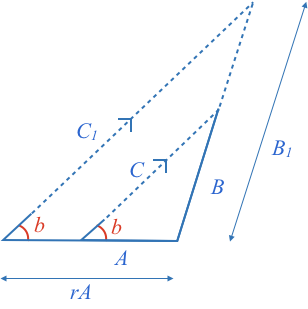
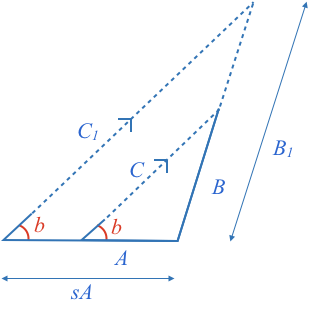
update staticBrief

diff --git a/src/content/Math/Geometry_1/SimilarTriangles/explanation/staticBrief/content.md b/src/content/Math/Geometry_1/SimilarTriangles/explanation/staticBrief/content.md
@@ -2,7 +2,7 @@
 
 **Similar** shapes are those that have the same shape but are a different size.
 
-**Similar** triangles have the same corresponding angles and their corresponding sides are the same proportion.
+**Similar** triangles have the same corresponding angles and their corresponding sides have the same proportion (have the same scaling factor).
 
 
 ### Triangles with Equal Corresponding Angles are Similar - Proof
@@ -11,7 +11,7 @@ Consider two triangles with **equal angles** overlaid on each other.
 
 ![](SimilarOverlay.png)
 
-$$\definecolor{b}{RGB}\definecolor{r}{RGB}{238,34,12}{0,118,186}\angle DBC$$ and $$\angle ADE$$ are [[equal corresponding angles]]((qr,'Math/Geometry_1/AnglesAtIntersections/base/Corresponding',#00756F)), therefore $$\color{b}BC \parallel DE$$.
+$$\definecolor{b}{RGB}{0,118,186}\definecolor{r}{RGB}{238,34,12}\angle DBC$$ and $$\angle ADE$$ are [[equal corresponding angles]]((qr,'Math/Geometry_1/AnglesAtIntersections/base/Corresponding',#00756F)), therefore $$\color{b}BC \parallel DE$$.
 
 When a triangle is [[split with a parallel line]]((qr,'Math/Geometry_1/ParallelSplitOfTriangle/base/Triangle',#00756F)), the smaller triangle's sides will all be scaled by the same proportion.
 
@@ -23,37 +23,39 @@ Therefore $$\triangle ABC$$ and $$\triangle ADE$$ are **similar**.
 
 ### Similar Triangles have Equal Corresponding Angles - Proof
 
-Start with two triangles whose **corresponding sides have equal proportion**.
-
-Start by drawing the two proportional triangles $$\triangle ABC$$ and $$\triangle DEF$$, and then draw an additional triangle along $$DF$$ with the angles $$\angle BAC=\angle GDF$$ and $$\angle ACB=\angle DFG$$:
+Start by drawing the two similar triangles $$\triangle ABC$$ and $$\triangle DEF$$, and then draw an additional triangle along $$DF$$ with the angles $$\angle BAC=\angle GDF$$ and $$\angle ACB=\angle DFG$$:
 
 ![](ProportionalToAngles.png)
 
-Angles in a triangle [[add]]((qr,'Math/Geometry_1/Triangles/base/AngleSum',#00756F)) to 180º, so two triangles with the same two angles will have the same third angle: $$\color{b}\angle ABC = \angle DGF$$
+[[Angles in a triangle add to 180º]]((qr,'Math/Geometry_1/Triangles/base/AngleSum',#00756F)), so two triangles with the same two angles will have the same third angle:
+
+$$\angle ABC = \angle DGF$$
 
 Therefore all the corresponding angles of $$\triangle ABC$$ and $$\triangle DFG$$ are equal.
 
 From above, two triangles with the same corresponding angles are similar.
 
-Therefore:
+So we started with two initial similar triangles:
 
-$$\color{b} \frac{DG}{AB} = \frac{DF}{AC} \ \ \ \ \ \ \ \ \color{grey}(1)$$
+$$\frac{{DE}\color{b}}{AB}\color{black} = \frac{DF}{AC} \ \ \ \ \ \ \ \ \color{grey}(2)$$
 
-We started with:
+And then constructed a third triangle $$\triangle DFG$$ similar to $$\triangle ABC$$ resulting in:
 
-$$\color{b} \frac{\color{r}{DE}\color{b}}{AB} = \frac{DF}{AC} \ \ \ \ \ \ \ \ \color{grey}(2)$$
+$$\frac{\color{r}DG}{\color{black}AB} = \frac{DF}{AC} \ \ \ \ \ \ \ \ \color{grey}(1)$$
+
+
 
 Combining $$\color{grey}(1)$$ and $$\color{grey}(2)$$:
 
-$$\color{b} DE = DG$$
+$$DE = DG$$
 
 Using the same process, can similarly show:
 
-$$\color{b} EF = GF$$
+$$EF = GF$$
 
 Triangles with the same side lengths are [[congruent]]((qr,'Math/Geometry_1/CongruentTriangles/base/Sss',#00756F)), so the angles of $$\triangle DEF$$ will be equal to the angles in $$\triangle DFG$$ and therefore $$\triangle ABC$$.
 
-Therefore $$\triangle ABC$$ and $$\triangle DEF$$ are similar as they have the same angles, and their corresponding sides have the same proportion.
+Therefore the similar triangles $$\triangle ABC$$ and $$\triangle DEF$$ have equal corresponding angles.
 
 ### Similarity Tests
 
@@ -65,15 +67,19 @@ The longer [form of this explanation](/content/Math/Geometry_1/SimilarTriangles/
 
 ### Angle-Angle-Angle (AAA) and Side-Side-Side (SSS)
 
-By definition, if you know three angles, or three sides of two triangles, you can tell if they are similar or not by directly comparing their proportions.
+By definition, if you know three angles, or three sides of two triangles, you can tell if they are similar or not by directly comparing their properties. 
+
+If the corresponding sides all have equal proportion, then the triangles will be similar.
+
+Alternately if all corresponding angles are equal, then the triangles will be similar.
 
 ### Angle-Angle (AA)
 
-Two angles is also sufficient to determine similarity as all angles in a triangle [[add to 180º]]((qr,'Math/Geometry_1/Triangles/base/AngleSum',#00756F)), and therefore if you know two anlges you actually know all three.
+Two angles are also sufficient to determine similarity as all angles in a triangle [[add to 180º]]((qr,'Math/Geometry_1/Triangles/base/AngleSum',#00756F)), and therefore if you know two angles you actually know all three.
 
 ### Side-Angle-Side (SAS)
 
-If you know two triangles have the same angle surrounded by equal corresponding sides, then you can align the two triangles on top of each other.
+If you know two triangles have the same angle surrounded by corresponding sides that have equal proportion (or scaling factor) then you can align the two triangles on top of each other.
 
 ![](sas.png)
 
@@ -99,14 +105,14 @@ Let's start by considering only the shorter triangle, and growing its base to be
 
 ![](ssa_final.png)
 
-* Grow side $$\color{b}A$$ to length $$\color{b}rA$$, and put angle  $$\color{r}b$$ at its end
+* Grow side $$\color{b}A$$ to length $$\color{b}sA$$, and put angle  $$\color{r}b$$ at its end
 * Extend sides $$\color{b}B$$ and $$\color{b}C_1$$ to form a triangle
-* The two $$\color{r}b$$ angles are [[equal corresponding angles]]((qr,'Math/Geometry_1/AnglesAtIntersections/base/Corresponding')) thus $$\color{b}C_1 \color{black}|| \color{b}C$$
-* $$\color{b}\triangle rAB_1C_1$$ is therefore [[split with a parallel line]]((qr,'Math/Geometry_1/ParallelSplitOfTriangle/base/Triangle',#00756F))
-* Therefore $$\color{b}\triangle rAB_1C_1$$ is similar to $$\color{b}\triangle ABC$$, and is scaled by $$\color{b}r$$
-* Therefore $$\color{b}B_1\color{black}=\color{b}rB$$, $$\color{b}C_1\color{black}=\color{b}rC$$
-* By [[SSA]]((qr,'Math/Geometry_1/CongruentTriangles/base/Ssa',#00756F)) the larger triangle is congruent with the original large triangle (as $$\color{b}rB\color{black}\gt\color{b}rA$$)
+* The two $$\color{r}b$$ angles are [[equal corresponding angles]]((qr,'Math/Geometry_1/AnglesAtIntersections/base/Corresponding',#00756F)) thus $$\color{b}C_1 \color{black}|| \color{b}C$$
+* $$\color{b}\triangle sAB_1C_1$$ is therefore [[split with a parallel line]]((qr,'Math/Geometry_1/ParallelSplitOfTriangle/base/Triangle',#00756F))
+* Therefore $$\color{b}\triangle sAB_1C_1$$ is similar to $$\color{b}\triangle ABC$$, and is scaled by $$\color{b}s$$
+* Therefore $$\color{b}B_1\color{black}=\color{b}sB$$, $$\color{b}C_1\color{black}=\color{b}sC$$
+* By [[SSA]]((qr,'Math/Geometry_1/CongruentTriangles/base/Ssa',#00756F)) the larger triangle is congruent with the original large triangle (as $$\color{b}sB\color{black}\gt\color{b}sA$$)
 * Therefore the two original triangles are similar
 
-The same method can be used for when $$\color{b}rB\color{black}=\color{b}rA$$.
+The same method can be used for when $$\color{b}sB\color{black}=\color{b}sA$$.
 
